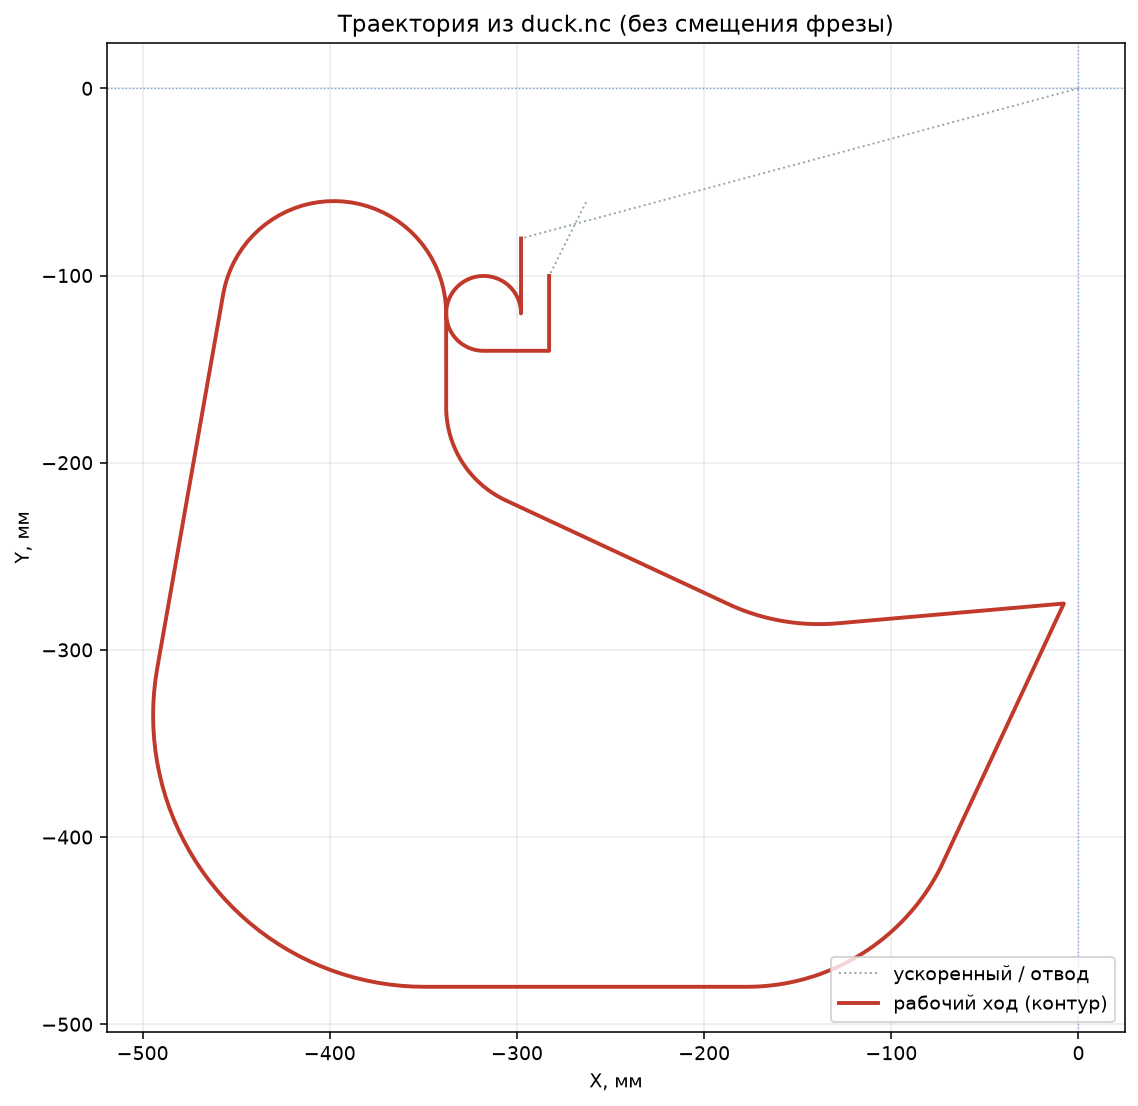
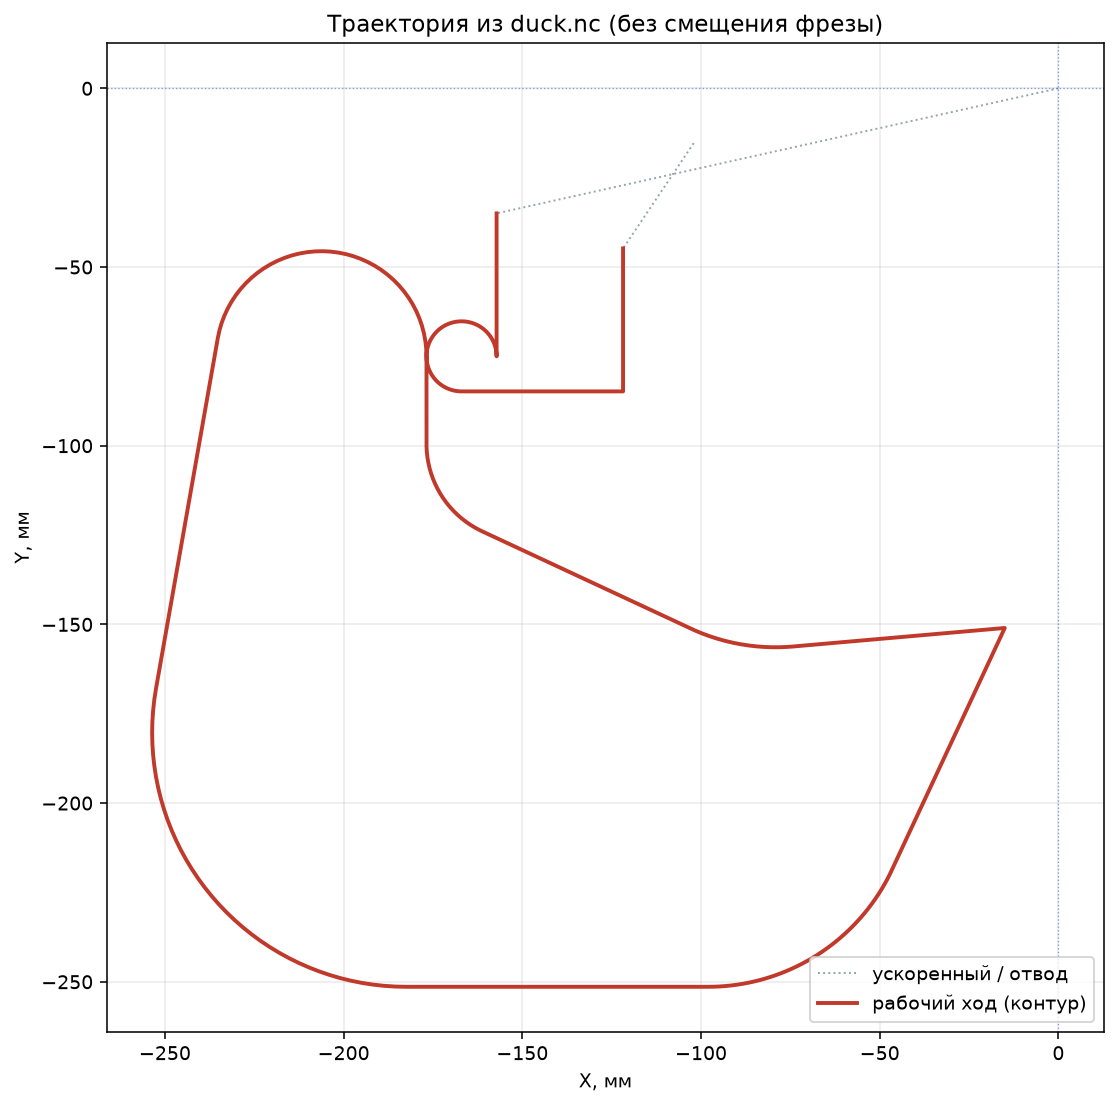
Scale SwanSoft toolpath to ~280mm -X/-Y travel
Y-413 caused Over travel on typical training-mill stroke.
Uniformly scale the contour and keep it within -15..-252 mm.

diff --git a/cnc/viewer.html b/cnc/viewer.html
@@ -23,24 +23,24 @@
 <canvas id="c"></canvas>
 <script>
 const NC = `
-G00 X-297.823 Y-80.240
-G01 X-297.823 Y-120.240
-G03 X-337.823 Y-120.240 I-20.000 J0.000
-G01 X-337.823 Y-170.240
-G03 X-306.067 Y-220.087 I55.000 J0.000
-G01 X-187.287 Y-275.475
-G03 X-128.663 Y-285.812 I48.601 J104.225
-G01 X-7.823 Y-275.240
-G01 X-72.073 Y-413.024
-G02 X-177.204 Y-480.000 I-105.132 J49.024
-G01 X-349.380 Y-480.000
-G02 X-492.177 Y-309.821 I0.000 J145.000
-G01 X-456.912 Y-109.821
-G02 X-337.823 Y-120.240 I59.088 J-10.419
-G03 X-317.823 Y-140.240 I20.000 J0.000
-G01 X-282.823 Y-140.240
-G01 X-282.823 Y-100.240
-G00 X-262.823 Y-60.240
+G00 X-157.200 Y-35.000
+G01 X-157.200 Y-75.000
+G03 X-176.814 Y-75.000 I-9.807 J0.000
+G01 X-176.814 Y-99.517
+G03 X-161.242 Y-123.959 I26.969 J0.000
+G01 X-102.999 Y-151.119
+G03 X-74.253 Y-156.187 I23.831 J51.106
+G01 X-15.000 Y-151.003
+G01 X-46.504 Y-218.565
+G02 X-98.055 Y-251.406 I-51.551 J24.038
+G01 X-182.480 Y-251.406
+G02 X-252.500 Y-167.960 I0.000 J71.100
+G01 X-235.208 Y-69.891
+G02 X-176.814 Y-75.000 I28.974 J-5.109
+G03 X-167.007 Y-84.807 I9.807 J0.000
+G01 X-121.814 Y-84.807
+G01 X-121.814 Y-44.807
+G00 X-101.814 Y-15.000
 `;
 function parse(nc) {
   let x=0,y=0, pts=[];

diff --git a/cnc/generate.py b/cnc/generate.py
@@ -22,10 +22,10 @@ FEED_Z = 80.0
 SPINDLE = 1200
 
 # SwanSoft Fanuc: after REF/HOME the machine sits at the POSITIVE stroke end.
-# Moves into +X/+Y from home → "Over travel". Work must be in -X/-Y (or G54<<0).
-# We place the toolpath in the negative quadrant with G54=0 after HOME.
-STOCK_XY = 500.0
-MARGIN = 20.0
+# Work must be in -X/-Y. Training mills often allow only ~300 mm into -X/-Y
+# (Y-413 already caused Over travel) — scale the path to fit TRAVEL.
+TRAVEL = 280.0
+MARGIN = 15.0
 
 
 def ij(start, center):
@@ -40,26 +40,8 @@ def shift_pt(p, dx, dy):
     return (p[0] + dx, p[1] + dy)
 
 
-def compute_work_shift(pts, lead: dict):
-    """Translate drawing coords into the SwanSoft +X/+Y work envelope.
-
-    Fit inside STOCK_XY×STOCK_XY with MARGIN when possible; never go negative.
-    """
-    xs = [p[0] for k, p in pts.items() if k.startswith("P")]
-    ys = [p[1] for k, p in pts.items() if k.startswith("P")]
-    for key in ("rapid_in", "start_in", "end_out", "away", "cancel", "park", "P2"):
-        xs.append(lead[key][0])
-        ys.append(lead[key][1])
-
-    def axis_shift(vals):
-        lo, hi = min(vals), max(vals)
-        span = hi - lo
-        if span <= STOCK_XY - 2 * MARGIN:
-            return MARGIN - lo  # left/bottom margin
-        # Contour almost fills the blank — center it (still non-negative).
-        return (STOCK_XY - span) / 2.0 - lo
-
-    return axis_shift(xs), axis_shift(ys)
+def scale_pt(p, s):
+    return (p[0] * s, p[1] * s)
 
 
 def apply_shift_pts(pts, dx, dy):
@@ -95,6 +77,43 @@ def apply_shift_segs(segs, dx, dy):
                 )
             )
     return out
+
+
+def apply_scale_pts(pts, s):
+    return {k: scale_pt(v, s) for k, v in pts.items()}
+
+
+def apply_scale_segs(segs, s):
+    from geometry import Seg
+
+    out = []
+    for seg in segs:
+        if seg.kind == "line":
+            out.append(
+                Seg("line", scale_pt(seg.p0, s), scale_pt(seg.p1, s), name=seg.name)
+            )
+        else:
+            out.append(
+                Seg(
+                    "arc",
+                    scale_pt(seg.p0, s),
+                    scale_pt(seg.p1, s),
+                    scale_pt(seg.center, s),
+                    seg.r * s,
+                    seg.g,
+                    seg.name,
+                )
+            )
+    return out
+
+
+def path_bounds(pts, lead: dict):
+    xs = [p[0] for k, p in pts.items() if k.startswith("P")]
+    ys = [p[1] for k, p in pts.items() if k.startswith("P")]
+    for key in ("rapid_in", "start_in", "end_out", "away", "cancel", "park", "P2"):
+        xs.append(lead[key][0])
+        ys.append(lead[key][1])
+    return min(xs), max(xs), min(ys), max(ys)
 
 
 def lead_geometry(pts, r_lead: float = 20.0):
@@ -154,12 +173,13 @@ def write_gcode(segs, pts, path: Path, lead: dict | None = None):
     a("O0001")
     a("(DUCK CONTOUR)")
     a("(SwanSoft Fanuc 0i-M)")
-    a("(After HOME leave G54 = 0,0,0 — XY in -X -Y, Z only <=0)")
-    a("(No Z+ moves: Z+ from HOME = Over travel on Z)")
+    a("(After HOME leave G54 = 0,0,0)")
+    a("(XY scaled to fit ~280mm travel in -X -Y from HOME)")
+    a("(Z only <=0 — Z+ from HOME = Over travel)")
     a("(RESET alarm, then AUTO / CYCLE START)")
     a(f"(Tool T1 D{TOOL_DIA:.0f}mm  set D1={TOOL_RAD:.1f} RADIUS)")
     a(f"(Depth Z{CUT_Z:.1f}  path X[{xmin:.0f}..{xmax:.0f}] Y[{ymin:.0f}..{ymax:.0f}])")
-    a(f"(Lead-in/out R{r:.0f} outside part at P2)")
+    a(f"(Lead-in/out R{r:.1f} outside part at P2)")
     a(f"{nxt()} G21 G17 G40 G49 G80 G90 G94")
     a(f"{nxt()} G54")
     a(f"{nxt()} T1 M06")
@@ -675,15 +695,22 @@ def main():
     plot_contour(segs0, pts0, lead0, ROOT / "contour.png")
     overlay_drawing(segs0, pts0, ROOT / "overlay_on_drawing.png")
 
-    # Machine-space NC for SwanSoft Fanuc:
-    # 1) pack into a 500×500 positive box, 2) map into -X/-Y from HOME.
-    dx, dy = compute_work_shift(pts0, lead0)
-    pts = apply_shift_pts(pts0, dx, dy)
-    segs = apply_shift_segs(segs0, dx, dy)
-    lead = apply_shift_lead(lead0, dx, dy)
-    pts = apply_shift_pts(pts, -STOCK_XY, -STOCK_XY)
-    segs = apply_shift_segs(segs, -STOCK_XY, -STOCK_XY)
-    lead = apply_shift_lead(lead, -STOCK_XY, -STOCK_XY)
+    # Machine-space NC for SwanSoft Fanuc (small travel ~280 mm into -X/-Y):
+    # scale drawing → rebuild lead → shift so path ∈ [-TRAVEL+MARGIN, -MARGIN].
+    xmin0, xmax0, ymin0, ymax0 = path_bounds(pts0, lead0)
+    span0 = max(xmax0 - xmin0, ymax0 - ymin0)
+    usable = TRAVEL - 2 * MARGIN
+    scale = 0.95 * usable / span0
+    r_lead = max(8.0, 20.0 * scale)
+    pts = apply_scale_pts(pts0, scale)
+    segs = apply_scale_segs(segs0, scale)
+    lead = lead_geometry(pts, r_lead=r_lead)
+    xmin, xmax, ymin, ymax = path_bounds(pts, lead)
+    dx = -MARGIN - xmax
+    dy = -MARGIN - ymax
+    pts = apply_shift_pts(pts, dx, dy)
+    segs = apply_shift_segs(segs, dx, dy)
+    lead = apply_shift_lead(lead, dx, dy)
     nc, lead = write_gcode(segs, pts, ROOT / "duck.nc", lead=lead)
     write_preview(segs, pts, lead, ROOT / "duck_preview.nc")
     simulate_gcode(nc, ROOT / "toolpath_from_nc.png")
@@ -692,7 +719,10 @@ def main():
     _write_viewer_nc(ROOT / "viewer.html", lead, segs)
 
     print("wrote", nc)
-    print(f"work shift for SwanSoft: pack dX={dx:.3f} dY={dy:.3f}, then -{STOCK_XY:.0f} (negative from HOME)")
+    print(
+        f"SwanSoft fit: scale={scale:.4f} r_lead={r_lead:.2f} "
+        f"shift=({dx:.2f},{dy:.2f}) travel={TRAVEL:.0f}"
+    )
     print(
         "lead-in",
         fmt(lead["start_in"]),

diff --git a/README.md b/README.md
@@ -17,7 +17,7 @@
 
 ## Как загрузить в симулятор (SwanSoft / Fanuc 0i-M)
 
-После **HOME** станок стоит в конце хода. Движение ещё дальше в **+X/+Y** даёт **Over travel**. Поэтому в `duck.nc` траектория лежит в **−X/−Y** (в сторону стола) при **G54 = 0,0,0**.
+После **HOME** станок стоит в конце хода. Движение в **+X/+Y** или слишком далеко в **−Y** даёт **Over travel**. В `duck.nc` контур **уменьшен** и лежит в **−X/−Y** примерно в пределах **280 мм** от HOME при **G54 = 0,0,0**.
 
 1. Если горит **ALM**: **RESET**; при Over travel по Z не поднимайте ось выше HOME.
 2. Режим **REF** → home **X, Y, Z**.
